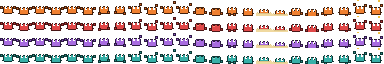
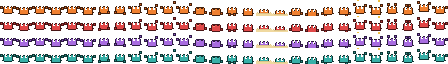
Animations gallery: state previews, toggleable beach actions, new clap/jump sprites

diff --git a/src/renderer/src/panels/AnimationsModal.tsx b/src/renderer/src/panels/AnimationsModal.tsx
@@ -1,0 +1,148 @@
+import { useEffect, useRef, useState } from 'react';
+import crabPng from '../assets/crab.png';
+import { CRAB_ANIM, CRAB_FRAME_SIZE } from '../assets/crabFrames';
+import { ALL_ACTIONS, enabledActions } from '../map/CanvasMap';
+import type { CrabAnimName } from '../assets/crabFrames';
+
+const CELL_SCALE = 3;
+
+/** 单格：循环播放一个动画（bubble 特殊 = idle + 泡泡粒子） */
+function AnimCell({
+  name,
+  colorIdx,
+}: {
+  name: CrabAnimName | 'bubble';
+  colorIdx: number;
+}) {
+  const ref = useRef<HTMLCanvasElement>(null);
+  useEffect(() => {
+    const canvas = ref.current!;
+    const ctx = canvas.getContext('2d')!;
+    ctx.imageSmoothingEnabled = false;
+    const img = new Image();
+    img.src = crabPng;
+    const anim = name === 'bubble' ? CRAB_ANIM.idle : CRAB_ANIM[name];
+    let raf = 0;
+    function draw(now: number) {
+      raf = requestAnimationFrame(draw);
+      if (!img.complete) return;
+      const fi =
+        anim.frames[Math.floor((now / 1000) * anim.fps) % anim.frames.length];
+      ctx.setTransform(CELL_SCALE, 0, 0, CELL_SCALE, 0, 0);
+      ctx.clearRect(0, 0, CRAB_FRAME_SIZE + 4, CRAB_FRAME_SIZE + 4);
+      ctx.drawImage(
+        img,
+        fi * CRAB_FRAME_SIZE,
+        colorIdx * CRAB_FRAME_SIZE,
+        CRAB_FRAME_SIZE,
+        CRAB_FRAME_SIZE,
+        2,
+        2,
+        CRAB_FRAME_SIZE,
+        CRAB_FRAME_SIZE,
+      );
+      if (name === 'bubble') {
+        const rise = (now / 260) % 12;
+        ctx.fillStyle = '#dceefb';
+        ctx.fillRect(13, 6 - rise / 4, 2, 2);
+        ctx.fillRect(15, 9 - rise / 3, 1, 1);
+      }
+    }
+    raf = requestAnimationFrame(draw);
+    return () => cancelAnimationFrame(raf);
+  }, [name, colorIdx]);
+  const px = (CRAB_FRAME_SIZE + 4) * CELL_SCALE;
+  return (
+    <canvas
+      ref={ref}
+      width={px}
+      height={px}
+      style={{ imageRendering: 'pixelated' }}
+    />
+  );
+}
+
+const STATE_ANIMS: { name: CrabAnimName; label: string }[] = [
+  { name: 'idle', label: 'idle' },
+  { name: 'walk', label: 'walk' },
+  { name: 'typing', label: 'working' },
+  { name: 'thinking', label: 'thinking' },
+  { name: 'waiting', label: 'waiting you' },
+  { name: 'sleeping', label: 'sleeping' },
+  { name: 'error', label: 'error' },
+  { name: 'compact', label: 'compacting' },
+  { name: 'juggle', label: 'subagents' },
+];
+
+const ACTION_LABELS: Record<string, string> = {
+  digging: 'dig',
+  burrow: 'burrow',
+  bubble: 'bubbles',
+  clap: 'clap',
+  jump: 'jump',
+};
+
+/** 动画 gallery：状态动画展示 + idle 动作池开关（学 clawd 的主题可调感） */
+export function AnimationsModal({ onClose }: { onClose: () => void }) {
+  const [colorIdx, setColorIdx] = useState(0);
+  const [actions, setActions] = useState<string[]>(() => enabledActions());
+
+  function toggleAction(kind: string) {
+    const next = actions.includes(kind)
+      ? actions.filter((k) => k !== kind)
+      : [...actions, kind];
+    setActions(next);
+    localStorage.setItem('cw-actions', JSON.stringify(next));
+  }
+
+  return (
+    <div className="modal-mask" onClick={onClose}>
+      <div className="modal anims-modal" onClick={(e) => e.stopPropagation()}>
+        <header>
+          <span>
+            animations{' '}
+            <span className="anims-swatches">
+              {['#f08030', '#e04848', '#a86ce0', '#38b0a8'].map((c, i) => (
+                <button
+                  key={c}
+                  className={`anims-swatch ${i === colorIdx ? 'active' : ''}`}
+                  style={{ background: c }}
+                  onClick={() => setColorIdx(i)}
+                />
+              ))}
+            </span>
+          </span>
+          <button onClick={onClose}>×</button>
+        </header>
+        <div className="anims-body">
+          <div className="anims-section dim">states</div>
+          <div className="anims-grid">
+            {STATE_ANIMS.map((a) => (
+              <div key={a.name} className="anims-cell">
+                <AnimCell name={a.name} colorIdx={colorIdx} />
+                <div className="anims-label">{a.label}</div>
+              </div>
+            ))}
+          </div>
+          <div className="anims-section dim">
+            beach actions ▪ toggle which ones crabs do while idle
+          </div>
+          <div className="anims-grid">
+            {ALL_ACTIONS.map((k) => (
+              <button
+                key={k}
+                className={`anims-cell anims-toggle ${actions.includes(k) ? '' : 'off'}`}
+                onClick={() => toggleAction(k)}
+              >
+                <AnimCell name={k as CrabAnimName | 'bubble'} colorIdx={colorIdx} />
+                <div className="anims-label">
+                  {actions.includes(k) ? '✓' : '✗'} {ACTION_LABELS[k]}
+                </div>
+              </button>
+            ))}
+          </div>
+        </div>
+      </div>
+    </div>
+  );
+}

diff --git a/src/renderer/src/index.css b/src/renderer/src/index.css
@@ -213,6 +213,75 @@ button.jv-more:hover {
   font-size: 11px;
 }
 
+/* ── 动画 gallery ─────────────────────── */
+.anims-modal {
+  width: 520px;
+  max-width: 90vw;
+  height: auto;
+  max-height: 80vh;
+}
+
+.anims-body {
+  padding: 12px 14px;
+  overflow-y: auto;
+}
+
+.anims-section {
+  font-size: 12px;
+  margin: 10px 0 6px;
+}
+
+.anims-grid {
+  display: flex;
+  flex-wrap: wrap;
+  gap: 8px;
+}
+
+.anims-cell {
+  width: 88px;
+  text-align: center;
+  background: #1d232a;
+  padding: 6px 2px 4px;
+  border: 1px solid #313840;
+}
+
+button.anims-cell {
+  font: inherit;
+  color: inherit;
+  cursor: pointer;
+}
+
+button.anims-cell:hover {
+  border-color: #c79a4e;
+}
+
+button.anims-cell.off {
+  opacity: 0.35;
+}
+
+.anims-label {
+  font-size: 11px;
+  color: #a4abb5;
+  margin-top: 2px;
+}
+
+.anims-swatches {
+  margin-left: 10px;
+}
+
+.anims-swatch {
+  width: 14px;
+  height: 14px;
+  border: 1px solid #313840;
+  margin-right: 4px;
+  cursor: pointer;
+  padding: 0;
+}
+
+.anims-swatch.active {
+  border-color: #fff;
+}
+
 .msg.turn {
   color: #6e7681;
   font-size: 11px;

diff --git a/src/renderer/src/map/CanvasMap.tsx b/src/renderer/src/map/CanvasMap.tsx
@@ -35,9 +35,29 @@ const BEACH_TOP = SEA_ROWS * TILE + 12;
 
 /** idle 时的沙滩小动作 */
 interface BeachAction {
-  kind: 'digging' | 'burrow' | 'bubble';
+  kind: 'digging' | 'burrow' | 'bubble' | 'clap' | 'jump';
   started: number;
   until: number;
+}
+
+export const ALL_ACTIONS: BeachAction['kind'][] = [
+  'digging',
+  'burrow',
+  'bubble',
+  'clap',
+  'jump',
+];
+
+/** settings 的动画 gallery 可关掉某些动作；key 不存在 = 全启用 */
+export function enabledActions(): BeachAction['kind'][] {
+  try {
+    const raw = localStorage.getItem('cw-actions');
+    if (!raw) return ALL_ACTIONS;
+    const on = JSON.parse(raw) as string[];
+    return ALL_ACTIONS.filter((k) => on.includes(k));
+  } catch {
+    return ALL_ACTIONS;
+  }
 }
 
 /** 每只螃蟹的动画运行时（不进 zustand，避免 60fps 重渲染） */
@@ -285,9 +305,9 @@ export function CanvasMap() {
         anim.ty = BEACH_TOP; // 走到滩沿淡出
       } else if (crab.state === 'idle_wander' && now > anim.nextWanderAt) {
         const rand = mulberry(anim.seed + Math.floor(now / 1000));
-        if (rand() < 0.45) {
-          // 做个沙滩日常：挖沙 / 钻沙 / 吐泡泡
-          const kinds: BeachAction['kind'][] = ['digging', 'burrow', 'bubble'];
+        const kinds = enabledActions();
+        if (kinds.length > 0 && rand() < 0.45) {
+          // 做个沙滩日常：挖沙 / 钻沙 / 吐泡泡 / 拍钳 / 跳跃
           const kind = kinds[Math.floor(rand() * kinds.length)];
           const dur = 3000 + rand() * 4000;
           anim.action = { kind, started: now, until: now + dur };

diff --git a/scripts/gen-sprites.ts b/scripts/gen-sprites.ts
@@ -43,7 +43,9 @@ interface Pose {
     | 'sweep0'
     | 'sweep1'
     | 'juggle0'
-    | 'juggle1';
+    | 'juggle1'
+    | 'clap0'
+    | 'clap1';
   /** 钻沙：下半身埋进沙里 */
   buried?: boolean;
   /** 耍杂技的球（0/1 = 两个相位） */
@@ -75,6 +77,10 @@ const POSES: Pose[] = [
   { bodyDy: 1, legPhase: 1, eyes: 'open', claws: 'sweep1' }, // 21 compact
   { bodyDy: 0, legPhase: 0, eyes: 'up', claws: 'juggle0', balls: 0 }, // 22 juggle
   { bodyDy: 1, legPhase: 1, eyes: 'up', claws: 'juggle1', balls: 1 }, // 23 juggle
+  { bodyDy: 0, legPhase: 0, eyes: 'open', claws: 'clap0' }, // 24 clap 拍钳
+  { bodyDy: 1, legPhase: 0, eyes: 'open', claws: 'clap1' }, // 25 clap
+  { bodyDy: -2, legPhase: 1, eyes: 'open', claws: 'juggle0' }, // 26 jump 跃起
+  { bodyDy: 0, legPhase: 0, eyes: 'open', claws: 'normal' }, // 27 jump 落地
 ];
 
 function hex(c: string): [number, number, number] {
@@ -201,6 +207,14 @@ function drawCrab(f: Frame, p: Palette, pose: Pose) {
       drawClaw(f, p, 1, cy - 5);
       drawClaw(f, p, 12, cy - 6);
       break;
+    case 'clap0': // 双钳身前高位分开
+      drawClaw(f, p, 3, cy - 6);
+      drawClaw(f, p, 10, cy - 6);
+      break;
+    case 'clap1': // 合拢相碰
+      drawClaw(f, p, 5, cy - 6);
+      drawClaw(f, p, 8, cy - 6);
+      break;
   }
 
   // 杂技球：两颗小球在头顶交替
@@ -258,6 +272,8 @@ export const CRAB_ANIM = {
   error: { frames: [18, 19], fps: 2 },
   compact: { frames: [20, 21], fps: 3 },
   juggle: { frames: [22, 23], fps: 4 },
+  clap: { frames: [24, 25], fps: 3 },
+  jump: { frames: [26, 27], fps: 2.5 },
 } as const;
 export type CrabAnimName = keyof typeof CRAB_ANIM;
 `;

diff --git a/src/renderer/src/panels/Hud.tsx b/src/renderer/src/panels/Hud.tsx
@@ -1,6 +1,7 @@
 import { useState } from 'react';
 import { useStore } from '../state/store';
 import { UsageBadge } from './UsageBadge';
+import { AnimationsModal } from './AnimationsModal';
 import { playSound, soundsEnabled } from '../sound';
 import type { ProjectListing } from '../../../shared/types';
 
@@ -19,6 +20,7 @@ export function Hud() {
   const [popups, setPopups] = useState(
     () => localStorage.getItem('cw-popups') === '1',
   );
+  const [showAnims, setShowAnims] = useState(false);
 
   function togglePermCards(on: boolean) {
     setPermCards(on);
@@ -128,8 +130,19 @@ export function Hud() {
               )}
             </label>
           )}
+          <button
+            className="hud-item"
+            onClick={() => {
+              setShowAnims(true);
+              setOpenSettings(false);
+              useStore.getState().setHudMenuOpen(false);
+            }}
+          >
+            animations…
+          </button>
         </div>
       )}
+      {showAnims && <AnimationsModal onClose={() => setShowAnims(false)} />}
     </div>
   );
 }

diff --git a/src/renderer/src/assets/crabFrames.ts b/src/renderer/src/assets/crabFrames.ts
@@ -13,5 +13,7 @@ export const CRAB_ANIM = {
   error: { frames: [18, 19], fps: 2 },
   compact: { frames: [20, 21], fps: 3 },
   juggle: { frames: [22, 23], fps: 4 },
+  clap: { frames: [24, 25], fps: 3 },
+  jump: { frames: [26, 27], fps: 2.5 },
 } as const;
 export type CrabAnimName = keyof typeof CRAB_ANIM;